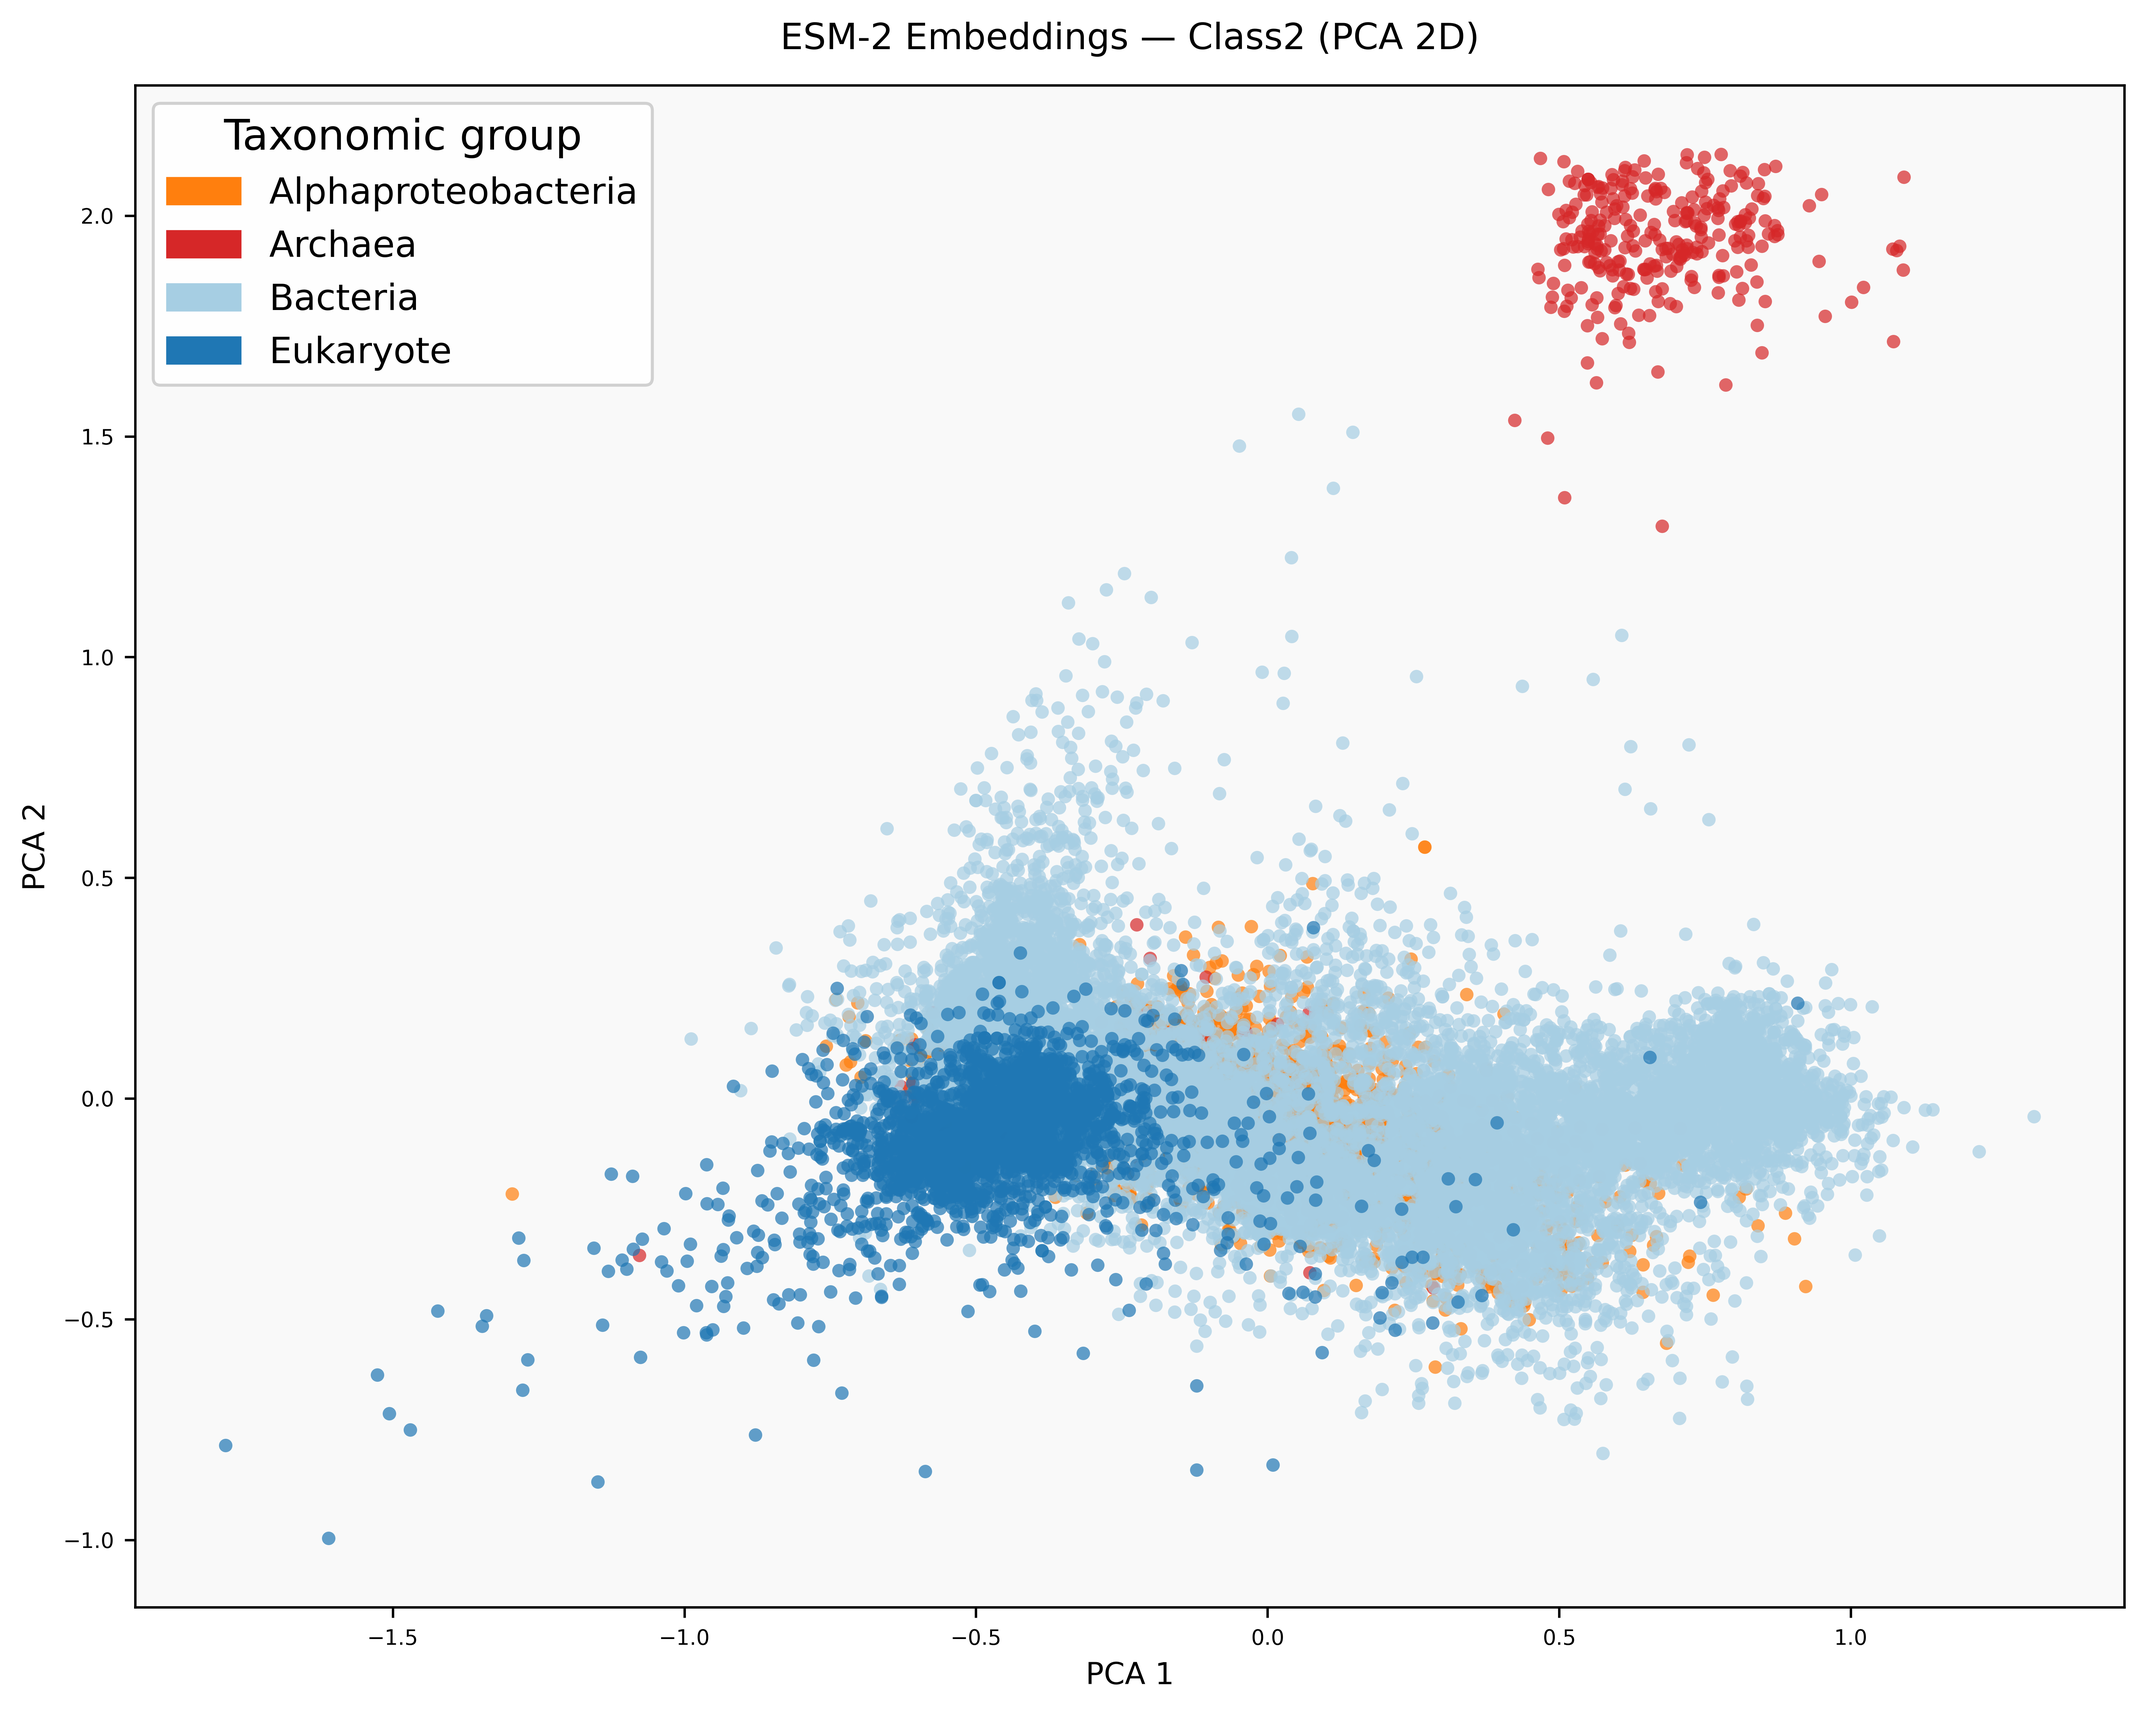
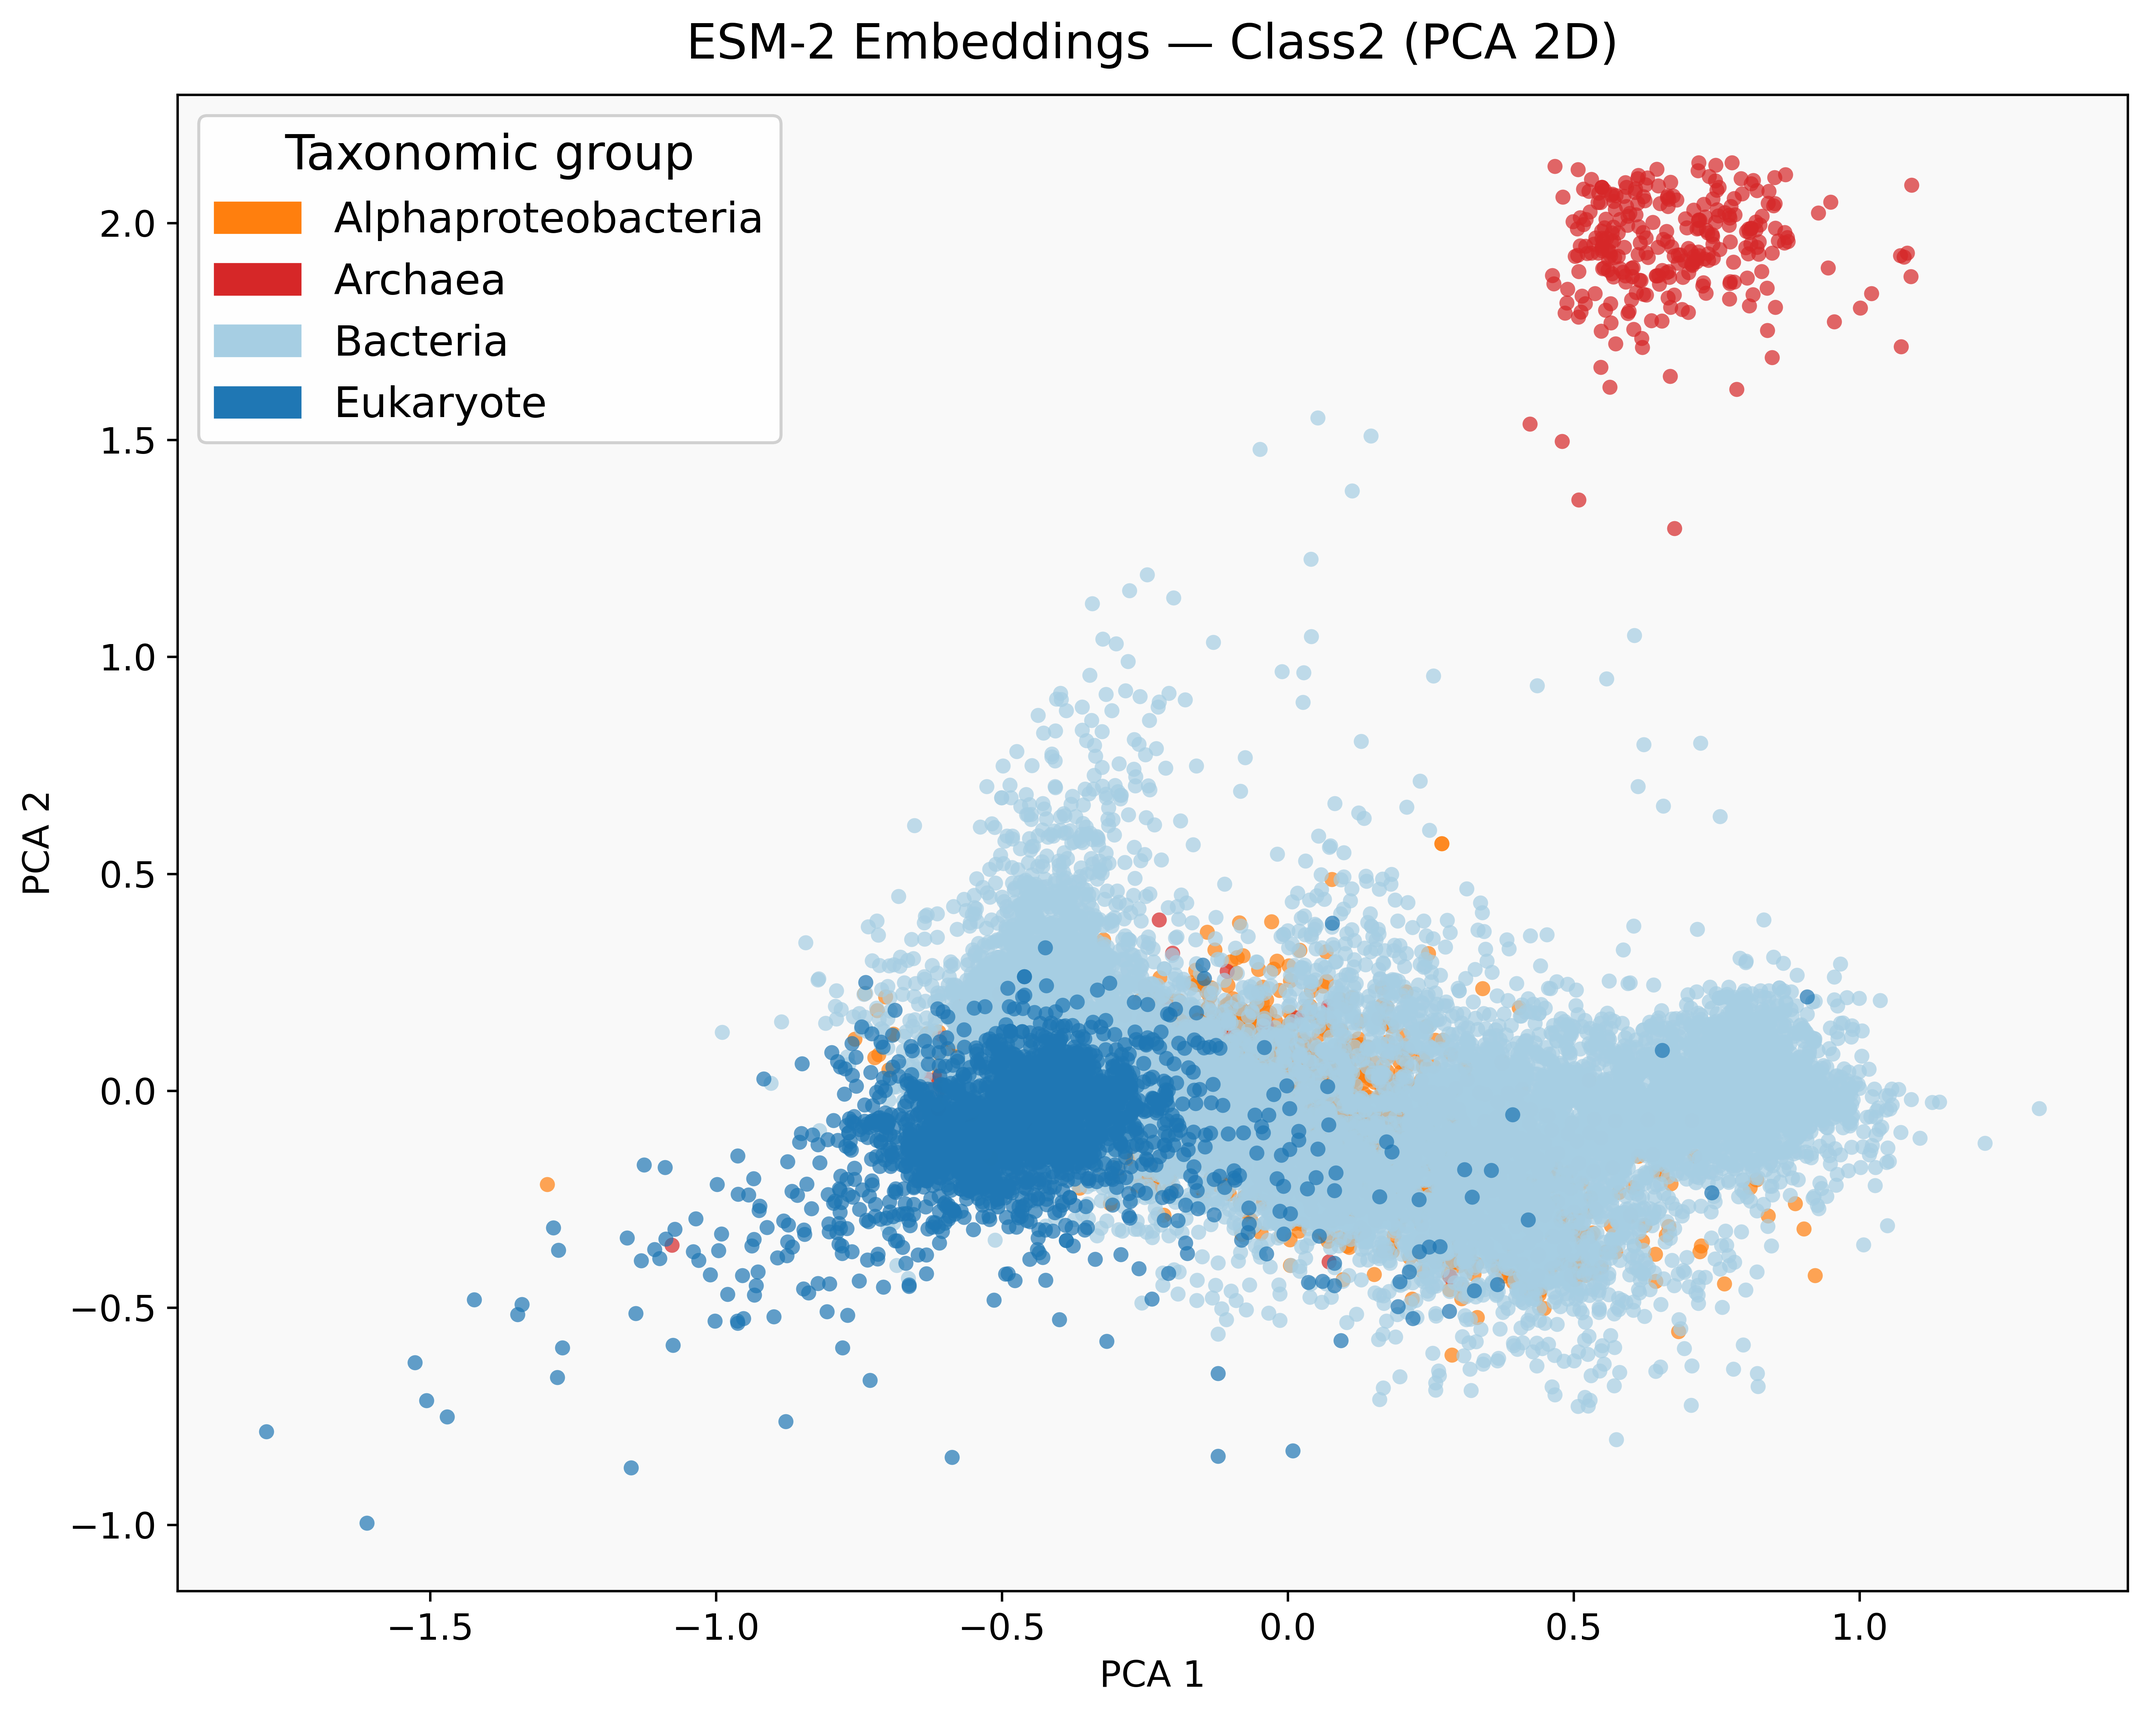
esm plot refine

diff --git a/scripts/08_plots/esm_plot.py b/scripts/08_plots/esm_plot.py
@@ -241,7 +241,7 @@ def plot_static(df: pd.DataFrame,
         color = COLORS.get(group, DEFAULT_COLOR)
         kwargs = dict(
             c     = color,
-            s     = 20,     # dots size
+            s     = 25,     # dots size
             alpha = 0.7,
             linewidths = 0,
             label = group,
@@ -259,10 +259,10 @@ def plot_static(df: pd.DataFrame,
         ax.set_ylabel(f"{axis_label} 2", fontsize=9, labelpad=4)
         ax.set_zlabel(f"{axis_label} 3", fontsize=9, labelpad=4)
     else:
-        ax.set_xlabel(f"{axis_label} 1", fontsize=10)
-        ax.set_ylabel(f"{axis_label} 2", fontsize=10)
+        ax.set_xlabel(f"{axis_label} 1", fontsize=12)
+        ax.set_ylabel(f"{axis_label} 2", fontsize=12)
 
-    ax.tick_params(labelsize=7)
+    ax.tick_params(labelsize=12)     # size of tick labels
     ax.set_facecolor("#f9f9f9")
 
     # Legend
@@ -270,20 +270,24 @@ def plot_static(df: pd.DataFrame,
         mpatches.Patch(color=COLORS.get(g, DEFAULT_COLOR), label=g)
         for g in sorted(groups_present)
     ]
-    ax.legend(
-        handles=handles,
-        title="Taxonomic group",
-        title_fontsize=14,       # legend title font size
-        fontsize=12,             # legend entry font size
-        loc="best",
-        framealpha=0.9,
-        edgecolor="#cccccc",
-    )
+    # if tsne and class I, don't make a legend:
+    if method == "tsne" and label == "class1":
+        log.info("  Skipping legend for t-SNE Class I")
+    else:
+        ax.legend(
+            handles=handles,
+            title="Taxonomic group",
+            title_fontsize=16,       # legend title font size
+            fontsize=14,             # legend entry font size
+            loc="best",
+            framealpha=0.9,
+            edgecolor="#cccccc",
+        )
 
     class_label = label.replace("_", " ").title()
     plt.title(
         f"ESM-2 Embeddings — {class_label} ({method.upper()} {n_dims}D)",
-        fontsize=12, pad=12,
+        fontsize=16, pad=12,
     )
     plt.tight_layout()
 

diff --git a/config.py b/config.py
@@ -73,11 +73,10 @@ ENTROPY = {
 }
 
 # --- Embeddings ---
-# TODO: Revise that (if wants to import esm, maybe use ESM2)
 ESM = {
-    "model": "esm1_t6_43M_UR50S",    # ESM-1b
-    "layer": 6,                      # mean pooling layer
-    "embedding_size": 1280,          # ESM-1b embedding dimension
+    "model": "esm2_t33_650M_UR50D",   # ESM-2 model variant
+    "layer": 33,                      # mean pooling layer
+    "embedding_size": 1280,           # dimensionality of the chosen ESM model
 }
 
 TSNE = {
